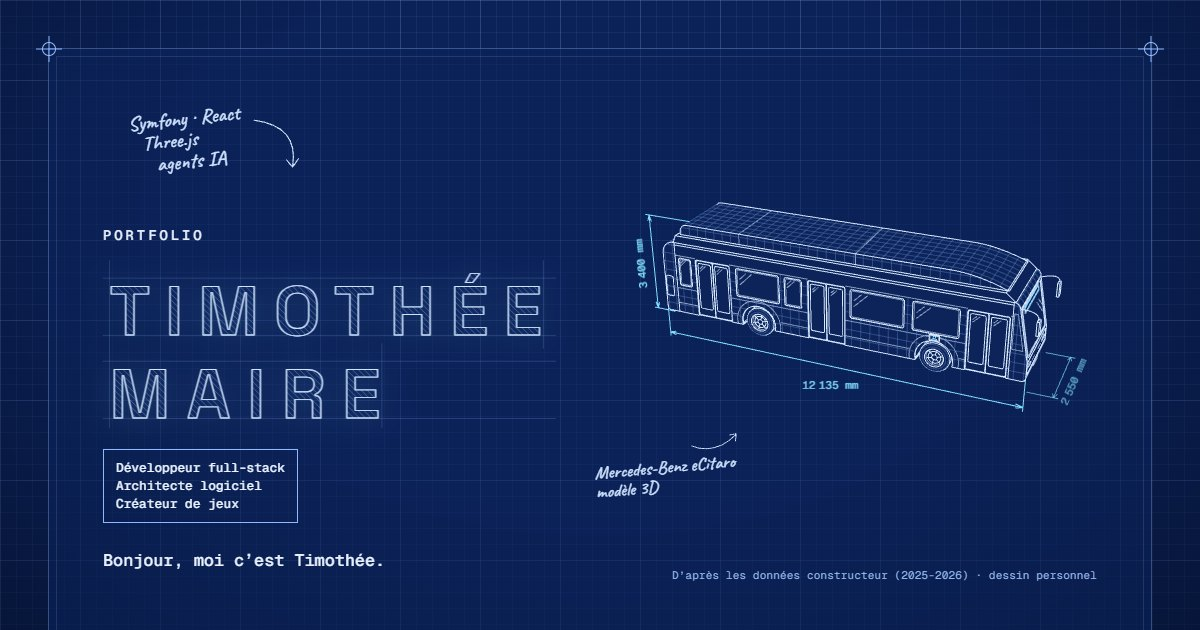
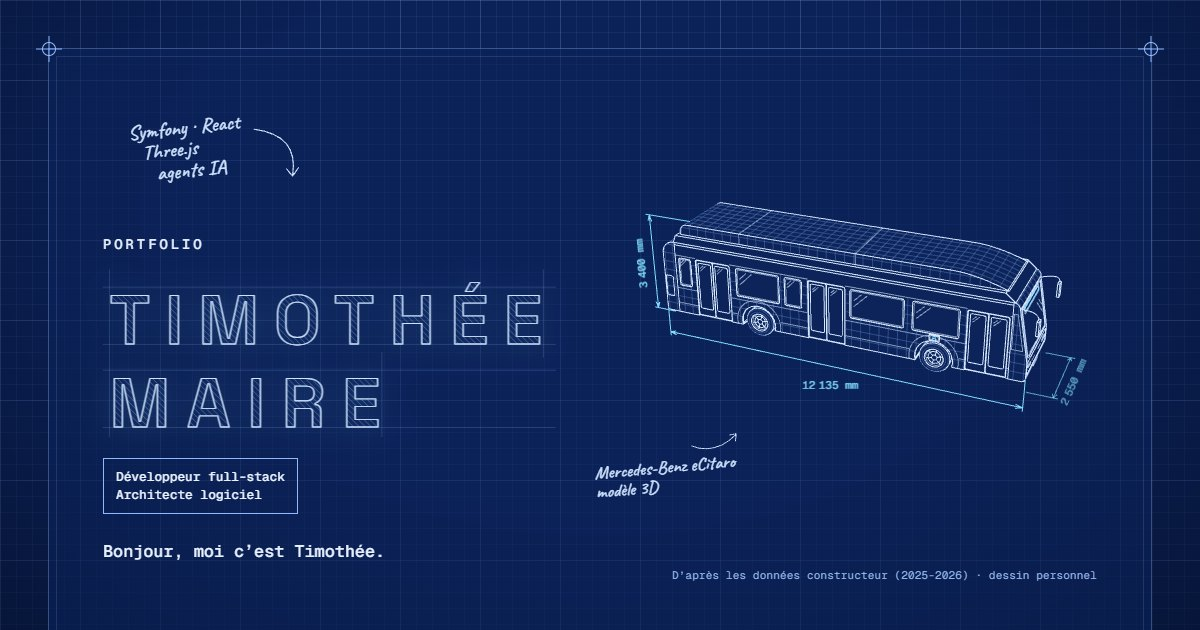
content: « Créateur de jeux » retiré du titre du hero
Le cartouche du hero ne garde que « Développeur full-stack · Architecte
logiciel » (EN : « Full-stack developer · Software architect »). Image
de partage régénérée.

Ajoute docs/linkedin : bannière plan bleu et textes du profil LinkedIn
repris du portfolio.

diff --git a/src/content.ts b/src/content.ts
@@ -406,7 +406,7 @@ const fr = {
   hero: {
     kicker: 'Portfolio',
     nameLines: ['Timothée', 'Maire'],
-    roles: ['Développeur full-stack', 'Architecte logiciel', 'Créateur de jeux'],
+    roles: ['Développeur full-stack', 'Architecte logiciel'],
     greeting: 'Bonjour, moi c’est Timothée.',
     lead: 'Je construis l’intranet de Daimler Buses France, dont se servent plus de 1 200 salariés.',
     cta: 'Découvrir mes projets',
@@ -959,7 +959,7 @@ const en: Content = {
   hero: {
     kicker: 'Portfolio',
     nameLines: ['Timothée', 'Maire'],
-    roles: ['Full-stack developer', 'Software architect', 'Game maker'],
+    roles: ['Full-stack developer', 'Software architect'],
     greeting: 'Hi, I’m Timothée.',
     lead: 'I build the Daimler Buses France intranet, used by more than 1,200 employees.',
     cta: 'See my projects',

diff --git a/docs/linkedin/PROPOSITION.md b/docs/linkedin/PROPOSITION.md
@@ -1,0 +1,63 @@
+# Profil LinkedIn : proposition dans le style du portfolio
+
+Même ton que le site : « je », dates et noms propres, pas de slogan. Les intitulés de poste, les entreprises, les lieux et les dates restent ceux de LinkedIn ; seuls le titre, la section Infos, les descriptions et la bannière changent.
+
+## Bannière
+
+`docs/linkedin/banniere.png` (3 168 × 792, soit 1 584 × 396 en double densité) : le plan bleu quadrillé du site, l'eCitaro en fil de fer avec ses cotes, « Daimler Buses France · Ligny-en-Barrois » et « Mercedes-Benz eCitaro » au crayon. La partie gauche reste vide, car c'est là que LinkedIn pose la photo.
+
+## Titre
+
+Avant : Architecte développeur d'application en alternance
+
+Après : Développeur full-stack · Architecte logiciel | Intranet de Daimler Buses France en Symfony et React | Master MAALSI au CESI
+
+## Infos
+
+Bonjour, moi c'est Timothée.
+
+Je construis l'intranet de Daimler Buses France, à Ligny-en-Barrois, en Symfony et React. Plus de 1 200 salariés s'en servent. C'est aussi là qu'est produit le Mercedes-Benz eCitaro.
+
+Je suis arrivé au développement par le réseau et le matériel : un bac pro, entre Cisco, VLAN et Arduino. Puis le logiciel : un BTS SIO, un bachelor au CESI, et mes premières missions. Je prépare aujourd'hui le master MAALSI au CESI (2025-2027).
+
+À côté, je fais des jeux et je dirige des équipes d'agents IA. Ce que je cherche maintenant : être davantage au contact des clients et des utilisateurs, pour comprendre le besoin à la source plutôt que de le recevoir déjà traduit.
+
+Au quotidien : Symfony, React, TypeScript, PHP.
+
+Mon portfolio, avec mes projets, deux mini-jeux et un eCitaro en 3D : https://portfolio-timotheemaire.up.railway.app/
+
+## Expérience
+
+**Architecte développeur web & Chef de projet · Daimler Buses GmbH**
+Je développe l'intranet de l'entreprise, en Symfony et React. Plus de 1 200 salariés s'en servent. Les modules sur lesquels j'ai travaillé :
+- Les propositions d'amélioration continue (PAC) : chacun dépose une idée, les autres votent.
+- Des questionnaires qualité qui changent selon le client, le type de véhicule et le contexte du contrôle.
+- Le magasin d'outillage, construit comme une boutique en ligne.
+- L'entreposage et le suivi des déplacements de véhicules.
+Côté projet, j'organise les réunions avec les services clients, je définis les projets et je les priorise.
+
+**Opérateur logistique · Lidl France**
+Préparation de commandes (frais, viandes et volailles, sec) et chariots élévateurs, en parallèle de mes études. Pas une ligne de code, mais trois ans de terrain : ça aide à comprendre ceux pour qui j'écris des logiciels aujourd'hui.
+
+**alternant développeur · Exco**
+Un outil d'analyse et de suivi des impressions, écrit en C# .NET sur une base SQL (SSMS). J'en ai aussi rédigé les spécifications fonctionnelles et techniques.
+
+**Développeur web · Kuehne+Nagel**
+Un portail destiné aux développeurs, avec leurs favoris, en JavaScript et CSS, déployé avec NGINX. Avant de coder, j'ai fait l'analyse préalable, écrit le cahier des charges et dessiné les maquettes.
+
+**Développeur web · Lycée Jean Prouvé**
+Un site web dynamique sous WordPress, pour le lycée où j'avais passé mon bac. Je l'ai présenté à la fin devant le corps enseignant.
+
+## Formation
+
+**CESI · Bachelor Concepteur développeur d'application (2023-2025)**
+Deux ans d'alternance. Docker, GitLab, GitHub, Node.js, React et React Native, entre autres.
+
+**Lycée Frédéric Chopin · BTS SIO (2021-2023)**
+Développement d'applications en C#, Python, HTML, CSS, JavaScript et PHP.
+
+## Écarts entre LinkedIn et le portfolio, non modifiés
+
+- Poste chez Daimler : « Architecte développeur web & Chef de projet » chez « Daimler Buses GmbH » sur LinkedIn, « Développeur web » chez « Daimler Buses France » sur le site.
+- Alternance 2023-2024 : « Exco » sur LinkedIn, « Nexiom SAS » sur le site.
+- Kuehne+Nagel : Lyon sur LinkedIn, Limas sur le site.
